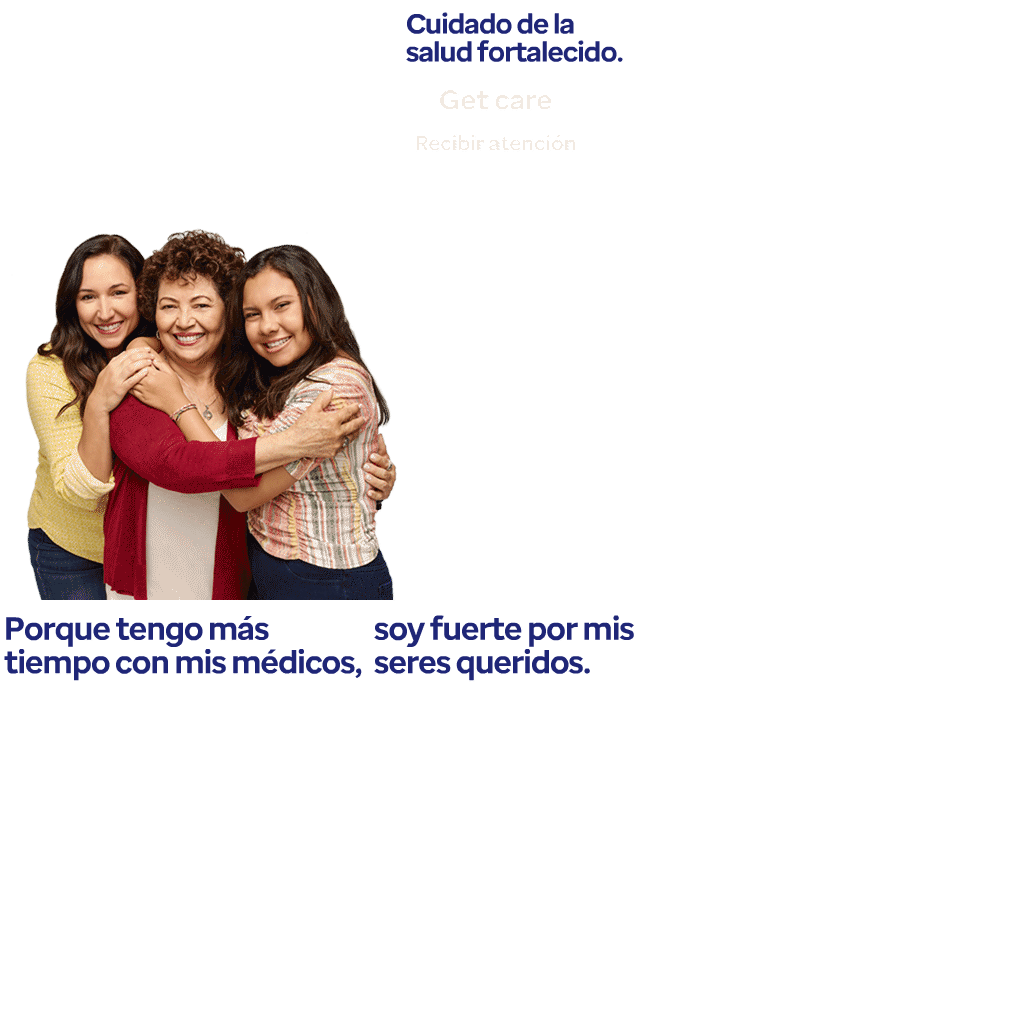
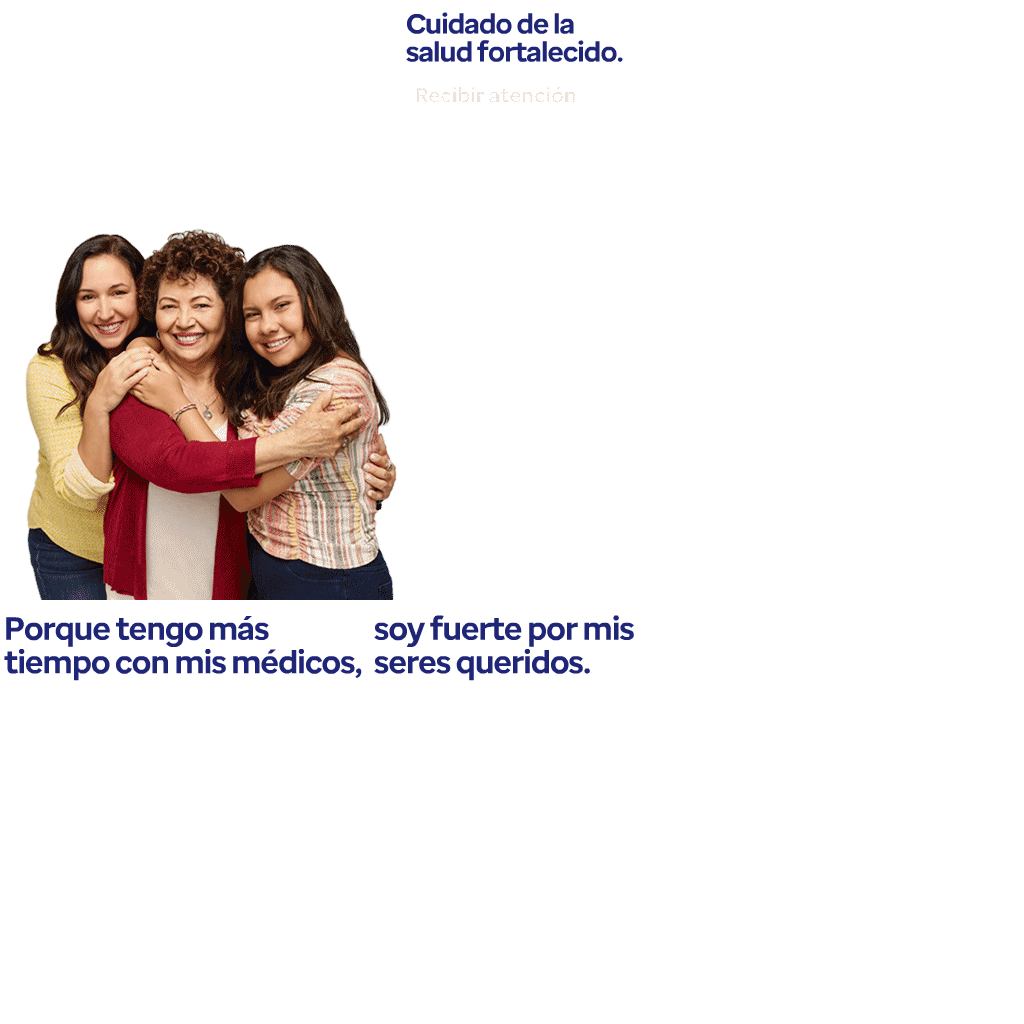
Add files via upload

diff --git a/esp-Caregiver/320x50/OPT471_Display_Caregiver-esp_320x50.js b/esp-Caregiver/320x50/OPT471_Display_Caregiver-esp_320x50.js
@@ -3,7 +3,7 @@
 var p; // shortcut to reference prototypes
 var lib={};var ss={};var img={};
 lib.ssMetadata = [
-		{name:"OPT471_Display_Caregiver_esp_320x50_atlas_1", frames: [[402,0,244,74],[370,602,270,85],[0,602,368,85],[402,76,188,46],[402,124,188,37],[0,0,400,600]]}
+		{name:"OPT471_Display_Caregiver_esp_320x50_atlas_1", frames: [[402,0,244,74],[370,602,270,85],[0,602,368,85],[402,76,188,37],[0,0,400,600]]}
 ];
 
 
@@ -26,44 +26,37 @@ lib.ssMetadata = [
 
 
 
-(lib.CachedBmp_135 = function() {
+(lib.CachedBmp_194 = function() {
 	this.initialize(ss["OPT471_Display_Caregiver_esp_320x50_atlas_1"]);
 	this.gotoAndStop(0);
 }).prototype = p = new cjs.Sprite();
 
 
 
-(lib.CachedBmp_134 = function() {
+(lib.CachedBmp_193 = function() {
 	this.initialize(ss["OPT471_Display_Caregiver_esp_320x50_atlas_1"]);
 	this.gotoAndStop(1);
 }).prototype = p = new cjs.Sprite();
 
 
 
-(lib.CachedBmp_133 = function() {
+(lib.CachedBmp_192 = function() {
 	this.initialize(ss["OPT471_Display_Caregiver_esp_320x50_atlas_1"]);
 	this.gotoAndStop(2);
 }).prototype = p = new cjs.Sprite();
 
 
 
-(lib.CachedBmp_132 = function() {
+(lib.CachedBmp_191 = function() {
 	this.initialize(ss["OPT471_Display_Caregiver_esp_320x50_atlas_1"]);
 	this.gotoAndStop(3);
 }).prototype = p = new cjs.Sprite();
 
 
 
-(lib.CachedBmp_131 = function() {
-	this.initialize(ss["OPT471_Display_Caregiver_esp_320x50_atlas_1"]);
-	this.gotoAndStop(4);
-}).prototype = p = new cjs.Sprite();
-
-
-
 (lib._300x600_Caregiver1x = function() {
 	this.initialize(ss["OPT471_Display_Caregiver_esp_320x50_atlas_1"]);
-	this.gotoAndStop(5);
+	this.gotoAndStop(4);
 }).prototype = p = new cjs.Sprite();
 // helper functions:
 
@@ -172,7 +165,7 @@ if (reversed == null) { reversed = false; }
 	cjs.MovieClip.apply(this,[props]);
 
 	// Layer_1
-	this.instance = new lib.CachedBmp_135();
+	this.instance = new lib.CachedBmp_194();
 	this.instance.setTransform(0,3,0.5,0.5);
 
 	this.timeline.addTween(cjs.Tween.get(this.instance).wait(1));
@@ -194,7 +187,7 @@ if (reversed == null) { reversed = false; }
 	cjs.MovieClip.apply(this,[props]);
 
 	// Layer_1
-	this.instance = new lib.CachedBmp_134();
+	this.instance = new lib.CachedBmp_193();
 	this.instance.setTransform(0,0,0.5,0.5);
 
 	this.timeline.addTween(cjs.Tween.get(this.instance).wait(1));
@@ -216,7 +209,7 @@ if (reversed == null) { reversed = false; }
 	cjs.MovieClip.apply(this,[props]);
 
 	// Layer_1
-	this.instance = new lib.CachedBmp_133();
+	this.instance = new lib.CachedBmp_192();
 	this.instance.setTransform(0,0,0.5,0.5);
 
 	this.timeline.addTween(cjs.Tween.get(this.instance).wait(1));
@@ -224,35 +217,6 @@ if (reversed == null) { reversed = false; }
 	this._renderFirstFrame();
 
 }).prototype = getMCSymbolPrototype(lib.HEAD1, new cjs.Rectangle(0,0,184,42.5), null);
-
-
-(lib.CTAmobile = function(mode,startPosition,loop,reversed) {
-if (loop == null) { loop = true; }
-if (reversed == null) { reversed = false; }
-	var props = new Object();
-	props.mode = mode;
-	props.startPosition = startPosition;
-	props.labels = {};
-	props.loop = loop;
-	props.reversed = reversed;
-	cjs.MovieClip.apply(this,[props]);
-
-	// type
-	this.instance = new lib.CachedBmp_132();
-	this.instance.setTransform(-44.15,-28,0.5,0.5);
-
-	this.timeline.addTween(cjs.Tween.get(this.instance).wait(1));
-
-	// box
-	this.shape = new cjs.Shape();
[1 lines of base64/hex data omitted]
-	this.shape.setTransform(3,-15.5);
-
-	this.timeline.addTween(cjs.Tween.get(this.shape).wait(1));
-
-	this._renderFirstFrame();
-
-}).prototype = getMCSymbolPrototype(lib.CTAmobile, new cjs.Rectangle(-44.1,-28,94.1,25), null);
 
 
 (lib.CTA = function(mode,startPosition,loop,reversed) {
@@ -267,7 +231,7 @@ if (reversed == null) { reversed = false; }
 	cjs.MovieClip.apply(this,[props]);
 
 	// type
-	this.instance = new lib.CachedBmp_131();
+	this.instance = new lib.CachedBmp_191();
 	this.instance.setTransform(-44.15,-25,0.5,0.5);
 
 	this.timeline.addTween(cjs.Tween.get(this.instance).wait(1));
@@ -383,62 +347,58 @@ if (reversed == null) { reversed = false; }
 	this.timeline.addTween(cjs.Tween.get(this.instance).wait(212));
 
 	// CTA
-	this.instance_1 = new lib.CTAmobile();
+	this.instance_1 = new lib.CTA();
 	this.instance_1.setTransform(169.1,45.55,0.8,0.8,0,0,0,0.1,10.2);
 	this.instance_1.alpha = 0;
 	this.instance_1._off = true;
 
-	this.instance_2 = new lib.CTA();
-	this.instance_2.setTransform(169.1,45.55,0.8,0.8,0,0,0,0.1,10.2);
-
-	this.timeline.addTween(cjs.Tween.get({}).to({state:[]}).to({state:[{t:this.instance_1}]},203).to({state:[{t:this.instance_2}]},8).wait(1));
-	this.timeline.addTween(cjs.Tween.get(this.instance_1).wait(203).to({_off:false},0).to({_off:true,alpha:1},8).wait(1));
+	this.timeline.addTween(cjs.Tween.get(this.instance_1).wait(203).to({_off:false},0).to({alpha:1},8).wait(1));
 
 	// PIC
-	this.instance_3 = new lib.PIC();
-	this.instance_3.setTransform(177.6,80,0.3434,0.3434,0,0,0,0.5,0.5);
-	this.instance_3._off = true;
+	this.instance_2 = new lib.PIC();
+	this.instance_2.setTransform(177.6,80,0.3434,0.3434,0,0,0,0.5,0.5);
+	this.instance_2._off = true;
 
-	this.timeline.addTween(cjs.Tween.get(this.instance_3).wait(94).to({_off:false},0).to({y:40},8,cjs.Ease.quadOut).wait(94).to({alpha:0},8).to({_off:true},7).wait(1));
+	this.timeline.addTween(cjs.Tween.get(this.instance_2).wait(94).to({_off:false},0).to({y:40},8,cjs.Ease.quadOut).wait(94).to({alpha:0},8).to({_off:true},7).wait(1));
 
 	// pill
-	this.instance_4 = new lib.Bkgd_PillRGB01ai("synched",0);
-	this.instance_4.setTransform(180.1,79.45,0.1061,0.1061,0,0,0,307.3,306.9);
-	this.instance_4._off = true;
+	this.instance_3 = new lib.Bkgd_PillRGB01ai("synched",0);
+	this.instance_3.setTransform(180.1,79.45,0.1061,0.1061,0,0,0,307.3,306.9);
+	this.instance_3._off = true;
 
-	this.timeline.addTween(cjs.Tween.get(this.instance_4).wait(90).to({_off:false},0).to({y:34.65},8,cjs.Ease.quadOut).wait(98).to({startPosition:0},0).to({alpha:0},8).to({_off:true},7).wait(1));
+	this.timeline.addTween(cjs.Tween.get(this.instance_3).wait(90).to({_off:false},0).to({y:34.65},8,cjs.Ease.quadOut).wait(98).to({startPosition:0},0).to({alpha:0},8).to({_off:true},7).wait(1));
 
 	// mask hi
+	this.instance_4 = new lib.typeMask();
+	this.instance_4.setTransform(160,-14.1,1,1,0,180,0,0,25.9);
+
+	this.timeline.addTween(cjs.Tween.get(this.instance_4).wait(212));
+
+	// mask lo
 	this.instance_5 = new lib.typeMask();
-	this.instance_5.setTransform(160,-14.1,1,1,0,180,0,0,25.9);
+	this.instance_5.setTransform(160,67.9,1,1,0,0,0,0,25.9);
 
 	this.timeline.addTween(cjs.Tween.get(this.instance_5).wait(212));
 
-	// mask lo
-	this.instance_6 = new lib.typeMask();
-	this.instance_6.setTransform(160,67.9,1,1,0,0,0,0,25.9);
-
-	this.timeline.addTween(cjs.Tween.get(this.instance_6).wait(212));
-
 	// HEAD1
-	this.instance_7 = new lib.HEAD1();
-	this.instance_7.setTransform(8,41,1,1,0,0,0,0,38);
+	this.instance_6 = new lib.HEAD1();
+	this.instance_6.setTransform(8,41,1,1,0,0,0,0,38);
 
-	this.timeline.addTween(cjs.Tween.get(this.instance_7).wait(86).to({y:-19},8,cjs.Ease.quadIn).to({_off:true},1).wait(117));
+	this.timeline.addTween(cjs.Tween.get(this.instance_6).wait(86).to({y:-19},8,cjs.Ease.quadIn).to({_off:true},1).wait(117));
 
 	// HEAD2
-	this.instance_8 = new lib.HEAD2();
-	this.instance_8.setTransform(8,101,1,1,0,0,0,0,38);
-	this.instance_8._off = true;
+	this.instance_7 = new lib.HEAD2();
+	this.instance_7.setTransform(8,101,1,1,0,0,0,0,38);
+	this.instance_7._off = true;
 
-	this.timeline.addTween(cjs.Tween.get(this.instance_8).wait(94).to({_off:false},0).to({y:41},8,cjs.Ease.quadOut).wait(67).to({y:-19},8,cjs.Ease.quadIn).to({_off:true},1).wait(34));
+	this.timeline.addTween(cjs.Tween.get(this.instance_7).wait(94).to({_off:false},0).to({y:41},8,cjs.Ease.quadOut).wait(67).to({y:-19},8,cjs.Ease.quadIn).to({_off:true},1).wait(34));
 
 	// HEAD3
-	this.instance_9 = new lib.HEAD3();
-	this.instance_9.setTransform(8,128.1,1,1,0,0,0,0,38);
-	this.instance_9._off = true;
+	this.instance_8 = new lib.HEAD3();
+	this.instance_8.setTransform(8,128.1,1,1,0,0,0,0,38);
+	this.instance_8._off = true;
 
-	this.timeline.addTween(cjs.Tween.get(this.instance_9).wait(177).to({_off:false},0).to({y:41},8,cjs.Ease.quadOut).wait(27));
+	this.timeline.addTween(cjs.Tween.get(this.instance_8).wait(177).to({_off:false},0).to({y:41},8,cjs.Ease.quadOut).wait(27));
 
 	// bkgd
 	this.shape_1 = new cjs.Shape();
@@ -460,7 +420,7 @@ lib.properties = {
 	color: "#333333",
 	opacity: 1.00,
 	manifest: [
-		{src:"images/OPT471_Display_Caregiver_esp_320x50_atlas_1.png?1662504895916", id:"OPT471_Display_Caregiver_esp_320x50_atlas_1"}
+		{src:"images/OPT471_Display_Caregiver_esp_320x50_atlas_1.png?1662508674453", id:"OPT471_Display_Caregiver_esp_320x50_atlas_1"}
 	],
 	preloads: []
 };
